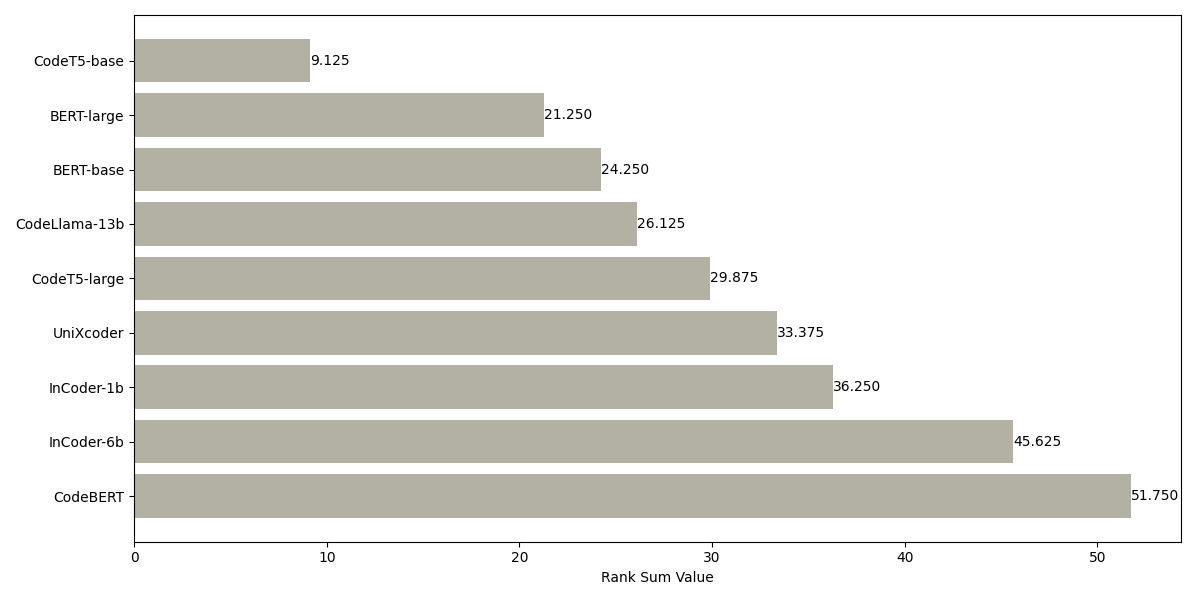
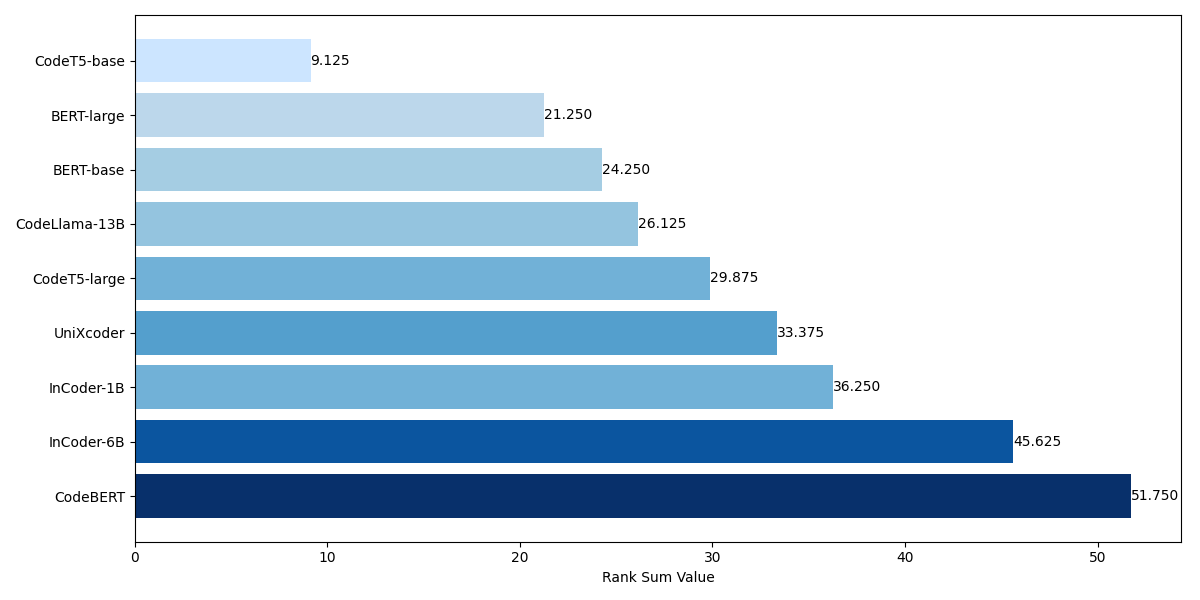
updated with some details

diff --git a/plot/RQ1_n_gram_box_plot.py b/plot/RQ1_n_gram_box_plot.py
@@ -7,7 +7,7 @@ matplotlib.use('Agg')
 # Data from the table
 models = [
     "BERT-base", "BERT-large", "CodeBERT", "UniXcoder",
-    "CodeT5-base", "CodeT5-large", "InCoder-1b", "InCoder-6b", "CodeLlama-13b"
+    "CodeT5-base", "CodeT5-large", "InCoder-1B", "InCoder-6B", "CodeLlama-13B"
 ]
 
 data_file = 'n_gram_model_data.pickle'
@@ -24,7 +24,7 @@ fig, axs = plt.subplots(3, 3, figsize=(15, 15))
 for i in range(3):
     for j in range(3):
         ax = axs[i, j]
-        ax.set_xticklabels(['common', 'buggy', 'fix'], fontsize=label_size)
+        ax.set_xticklabels(['common', 'buggy', 'fixed'], fontsize=label_size)
         ax.tick_params(axis='y', labelsize=label_size-1)
         result = ax.boxplot(data_list[3 * i + j], patch_artist=True, showmeans=True, meanline=True,
                             medianprops={'color': 'black', 'linewidth': 2},
@@ -41,7 +41,7 @@ fig, axs = plt.subplots(3, 3, figsize=(15, 15))
 for i in range(3):
     for j in range(3):
         ax = axs[i, j]
-        ax.set_xticklabels(['common', 'buggy', 'fix'], fontsize=label_size)
+        ax.set_xticklabels(['common', 'buggy', 'fixed'], fontsize=label_size)
         ax.tick_params(axis='y', labelsize=label_size-1)
         result = ax.boxplot(data_list[3 * i + j], patch_artist=True, showmeans=True, showfliers=False, meanline=True,
                             medianprops={'color': 'black', 'linewidth': 2},

diff --git a/plot/RQ1_modes_rank_sum.py b/plot/RQ1_modes_rank_sum.py
@@ -6,8 +6,8 @@ matplotlib.use('Agg')
 
 # Data
 models = [
-    "CodeT5-base", "BERT-large", "BERT-base", "CodeLlama-13b",
-    "CodeT5-large", "UniXcoder", "InCoder-1b", "InCoder-6b", "CodeBERT"
+    "CodeT5-base", "BERT-large", "BERT-base", "CodeLlama-13B",
+    "CodeT5-large", "UniXcoder", "InCoder-1B", "InCoder-6B", "CodeBERT"
 ]
 
 rank_sums = [9.125, 21.25, 24.25, 26.125, 29.875, 33.375, 36.25, 45.625, 51.75]
@@ -17,9 +17,12 @@ sorted_indices = np.argsort(rank_sums)
 sorted_models = np.array(models)[sorted_indices][::-1]
 sorted_rank_sums = np.array(rank_sums)[sorted_indices][::-1]
 
+# Create a list of colors based on the rank sums
+colors = ['#08306B', '#0b559F', '#71B1D7', '#549FCD', '#71B1D7', '#94C4DF', '#A5CDE3', '#BCD7EB', '#CCE5FF']
+
 # Create horizontal bar chart
 plt.figure(figsize=(12, 6))
-bars = plt.barh(sorted_models, sorted_rank_sums, color='#b3b1a4')
+bars = plt.barh(sorted_models, sorted_rank_sums, color=colors)  # '#b3b1a4'
 
 # Adding labels
 plt.xlabel('Rank Sum Value')

diff --git a/plot/RQ1_n_gram.py b/plot/RQ1_n_gram.py
@@ -7,7 +7,7 @@ matplotlib.use('Agg')
 # Data from the table
 models = [
     "BERT-base", "BERT-large", "CodeBERT", "UniXcoder",
-    "CodeT5-base", "CodeT5-large", "InCoder-1b", "InCoder-6b", "CodeLlama-13b"
+    "CodeT5-base", "CodeT5-large", "InCoder-1B", "InCoder-6B", "CodeLlama-13B"
 ]
 
 normal_code = [7.69, 9.69, 4.49, 9.18, 8.76, 5.84, 5.95, 5.93, 4.47]
@@ -23,7 +23,7 @@ fig, ax = plt.subplots(figsize=(12, 6))
 
 bar1 = ax.bar(pos - width, normal_code, width, label='Common Code', color='#42a1ff')
 bar2 = ax.bar(pos, buggy_code, width, label='Buggy Code', color='#d64a4a')
-bar3 = ax.bar(pos + width, fixed_code, width, label='Fix Code', color='#3cc32c')
+bar3 = ax.bar(pos + width, fixed_code, width, label='Fixed Code', color='#3cc32c')
 
 # Adding labels and title
 ax.set_ylabel('Code Naturalness', fontsize=12)

diff --git a/plot/RQ1_cohen_s_d.py b/plot/RQ1_cohen_s_d.py
@@ -23,7 +23,7 @@ indices = list(range(1, len(c_common) + 1))
 # Create a scatter plot
 plt.figure(figsize=(10, 6))
 plt.scatter(indices, c_common, color='blue', label="Cohen's d-common")
-plt.scatter(indices, c_fix, color='red', label="Cohen's d-fix")
+plt.scatter(indices, c_fix, color='red', label="Cohen's d-fixed")
 
 # Adding labels and title
 plt.xlabel('Index')

diff --git a/README.md b/README.md
@@ -1,6 +1,6 @@
 # 2024Chinasoft
 
-This repo provides the code for reproducing the experiments of the paper *Empirical Study on the Capacity of Code Naturalness Modeling for Large Language Models in Program Repair*.
+This repo provides the code for reproducing the experiments of the paper *An Empirical Study on the Code Naturalness Modeling Capability for LLMs in Automated Patch Correctness Assessment*.
 
 ### Dependency
 
